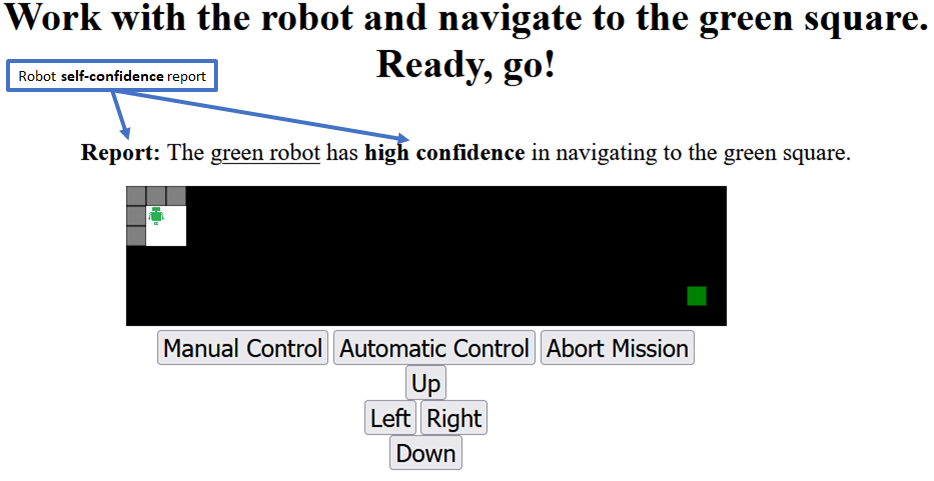
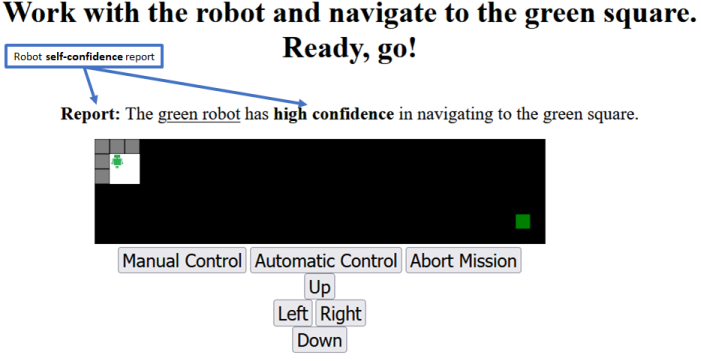
gifs in tutorial

diff --git a/web_gridworld/flaskr/templates/gridworld_app/base_tutorial.html b/web_gridworld/flaskr/templates/gridworld_app/base_tutorial.html
@@ -2,66 +2,64 @@
 
   {% block content %}
   <div>
+    <h2>Please <u>do not press the back button at any time</u> during this study.</h2>
     <br><br>
-    You will be faced with a set of mazes of varying difficulty and paired with a robot of varying capability. You are
-    allowed to driving the robot, or let the robot automatically drive. There will be dangers in the maze
-    which you will need to avoid. Your view of the mazes, and control you have of the robot will be limited, so you must
-    work together with your new robot partner. Your job is to work with the robot to safely navigate through each maze
-    from start to finish.
+    During this study you will be faced with a set of mazes of varying difficulty and paired with a robot of varying capability. You are
+    allowed to driving the robot, or let the robot automatically drive. You will have to watch out for dangers in the
+    maze. Your view of the mazes, and control you have of the robot will be limited, so you must work together with your
+    new robot partner to complete each maze.
   </div>
   <div>
-    <h3>Control Panel</h3>
-    You will be presented with a control panel to help navigate the maze. Below is an annotated image of it:
-    <div style="text-align:center">
+    <h3>You will be presented with a display to help navigate the maze:</h3>
+    <div style="text-align:center; border:5px solid #555">
       <img src="static/images/control_panel.png" alt="" />
     </div>
+    <br><br>
 
-    In the center is a map. The robot will start around the upper left corner. The finish is a green square which could
-    be located anywhere on the map. The finish will always be a visible to you and the robot. The robot will always be
-    visible and be one of three colors (red, blue, or green). The 8 square surrounding the robot are visible, as well as
-    areas of the map you have explored. All other unexplored areas are black. The maze is made up of the following items:
-    <ol>
-      <li><b>Robot</b> - Your robot which can be any of three colors (red, blue, or green).</li>
-      <li><b>Walls</b> - Which the robot cannot drive through.</li>
-      <li><b>Broken Glass</b> - If driven over will confuse the robot's sensors when in <u>Automatic Mode</u> and may cause it to move in an unexpected direction.</li>
-      <li><b>Holes</b> - If driven over the robot will fall in and <u>fail the maze</u>.</li>
-      <li><b>Explored Areas</b> - Areas which are white. Obstacles in this area area visible.</li>
-      <li><b>Unxplored Areas</b> - Areas which are black. Obstacles in this area not visible.</li>
-      <li><b>Finish</b> - A visible green square located anywhere on the map.</li>
-    </ol>
+    <h3>To control the robot yourself click Manual Control and use the Up, Left, Right, and Down buttons:</h3>
+    <div style="text-align:center; border:5px solid #555">
+      <img src="static/images/manual_control.gif" alt="" />
+    </div>
 
-    Below the map are a set of buttons to control the robot. While you are playing you will have all buttons available
-    to you.
-    <ol>
-      <li><b>Manual Control</b> - Allows you control the robot with the up, left, right,and down buttons.</li>
-      <li><b>Automatic Control</b> - Remove control from you and allows the robot to drive to the best of it's abilities.</li>
-      <li><b>Abort Mission</b> - End the mission.</li>
-      <li><b>Up</b> - In Manual Control mode, move the agent up 1 square.</li>
-      <li><b>Down</b> - In Manual Control mode, move the agent down 1 square.</li>
-      <li><b>Left</b> - In Manual Control mode, move the agent left 1 square.</li>
-      <li><b>Right</b> - In Manual Control mode, move the agent right 1 square.</li>
-    </ol>
-    The control mode buttons (Manual Control and Automatic Control) will be lit green depending on which is active. Please
-    note, Manual Control is significantly slower than Automatic Control, this is due to communication delays between
-    you and the robot.
+    <h3>To have the robot drive itself to the finish (to the best of it's ability), select Automatic Control. You can end Automatic
+      Control at any time by pressing the Manual Control button:</h3>
+    <div style="text-align:center; border:5px solid #555">
+      <img src="static/images/automatic_control.gif" alt="" />
+    </div>
+
+    <h3>There will be glass like debris in the maze. If the robot is driving in Automatic Control and it drives over this debris, it could move randomly in any direction:</h3>
+    <div style="text-align:center; border:5px solid #555">
+      <img src="static/images/glass.gif" alt="" />
+    </div>
+
+
+    <h3>But watch out! If the robot falls in a hole you will fail the maze:</h3>
+    <div style="text-align:center; border:5px solid #555">
+      <img src="static/images/holes.gif" alt="" />
+    </div>
+
+    <h3>If you don't think you can complete the maze you can abort it:</h3>
+    <div style="text-align:center; border:5px solid #555">
+      <img src="static/images/abort.gif" alt="" />
+    </div>
 
     <h3>Scoring</h3>
     You will receive a score based on how well you and the robot perform on each maze. At the end of the HIT you will be
-    paid a bonus of up to $1.00 based on your final score, and the effort you put into the experiment.
-
-    The score breakdown is as follows:
+    paid a bonus of up to $0.60 based on your final score, and the effort you put into the experiment. <u>Your goal should be
+    to maximize points based on the below scoring breakdown:</u>
     <ul>
-      <li><b>Successful maze finish</b>+5 points</li>
-      <li><b>Failed maze</b>-5 points</li>
-      <li><b>Abort maze</b>-3 points</li>
-      <li><b>Drive in Manual Mode</b>-2 points</li>
+      <li><b>Successful maze finish</b> +5 points</li>
+      <li><b>Failed maze</b> -5 points</li>
+      <li><b>Abort maze</b> -3 points</li>
+      <li><b>Drive in Manual Control</b> -0.1 points per step</li>
     </ul>
 
   </div>
-
+  <br><br>
+  <h3>The first maze will be practice</h3>
   {% if g.user %}
     <div id="button">
-    <a class="action" href="{{ url_for('gridworld_app.playgame') }}" >Start the first round</a>
+    <a class="action" href="{{ url_for('gridworld_app.playgame') }}" >Start the first maze</a>
     </div>
   {% endif %}
 

diff --git a/web_gridworld/flaskr/templates/gridworld_app/tutorial2.html b/web_gridworld/flaskr/templates/gridworld_app/tutorial2.html
@@ -1,14 +1,14 @@
 {% extends 'base.html' %}
 
   {% block content %}
+  <br><br>
   <div>
       You have been teamed with a new robot. This robot is capable of sending you a report telling you it's <b>self-confidence</b>
-      in navigating (in Automatic Mode) to an intermediate location denoted by a blue square, and it's <b>self-confidence</b>
-      from that intermediate location to the finish. This statement is the robots estimate of how well it thinks it will
-      perform. You may use it to inform your decision on Manual Control vs. Automatic Control. Note the addition of the
-      <b>self-confidence</b> report above the map.
+      in driving (in Automatic Mode) to an intermediate location denoted by a blue square, and it's <b>self-confidence</b>
+      in driving from that intermediate location to the finish. This new report will be displayed right above the maze.
   </div>
-    <div style="text-align:center">
+  <br><br>
+    <div style="text-align:center; border:5px solid #555">
       <img src="static/images/control_panel_2.png" alt="" />
     </div>
   {% if g.user %}

diff --git a/web_gridworld/flaskr/templates/gridworld_app/tutorial1.html b/web_gridworld/flaskr/templates/gridworld_app/tutorial1.html
@@ -1,13 +1,14 @@
 {% extends 'base.html' %}
 
   {% block content %}
+  <br><br>
   <div>
-      You have been teamed with a new robot. This robot is capable of sending you a report telling you it's <b>self-confidence</b>
-      in navigating (in Automatic Mode) to the finish. This statement is the robots estimate of how well it thinks it will
-      perform. You may use it to inform your decision on Manual Control vs. Automatic Control. Note the addition of the
-      <b>self-confidence</b> report above the map.
+      You have been paired with a new robot. This robot is capable of sending you a report telling you it's <b>self-confidence</b>
+      in driving (in Automatic Mode) to the finish. This statement is an estimate of how well it thinks it will
+      perform on the maze. The report will be displayed just above the maze.
   </div>
-    <div style="text-align:center">
+    <br><br>
+    <div style="text-align:center; border:5px solid #555">
       <img src="static/images/control_panel_1.png" alt="" />
     </div>
   {% if g.user %}

diff --git a/web_gridworld/flaskr/templates/gridworld_app/gridworld_game.html b/web_gridworld/flaskr/templates/gridworld_app/gridworld_game.html
@@ -107,7 +107,7 @@
 
     // 0 is black
     // 1 is visible
-    const visible_map = new Array(map_height*map_width).fill(1);
+    const visible_map = new Array(map_height*map_width).fill(0);
 
     // save the obstacle locations
     for (i=0; i<ob_locs.length; i++) {
@@ -172,7 +172,7 @@
     // Return a two dimensional drawing context
     const grid_board_ctx = grid_board.getContext("2d");
 
-    if(map_number === 0) {
+    if(report_level === -1) {
         document.getElementById('title').innerHTML = "<div><b>Practice: Work with the robot and navigate to the green square. Ready, go!</b></div>"
     }
     // Start the game

diff --git a/web_gridworld/flaskr/gridworld_app.py b/web_gridworld/flaskr/gridworld_app.py
@@ -193,7 +193,9 @@ def outcome():
 def trust_question():
     js = request.form['mark']
     post = {}
-    if session['level'] <= '1':
+    if session['level'] == '0':
+        return playgame()
+    elif session['level'] == '1':
         db = get_db()
         db.execute('UPDATE user SET first_trust = ? WHERE id = ?', (js, g.user['id'],))
         db.commit()
@@ -238,9 +240,9 @@ def base_tutorial():
     # choose color order from [red, green, blue]
     color_order = np.random.choice([0, 1, 2, ], 3, replace=False)
     # choose accuracy level from [accurate, random]
-    accuracy_level = np.random.randint(0, 2)
+    accuracy_level = 0#np.random.randint(0, 2)
     # choose competency level from [competent, random]
-    competency_level = np.random.randint(0, 2)
+    competency_level = 0#np.random.randint(0, 2)
     # choose a completion code for the user (hopefully this is random enough)
     completion_code = np.random.randint(111111111, 999999999)
 
